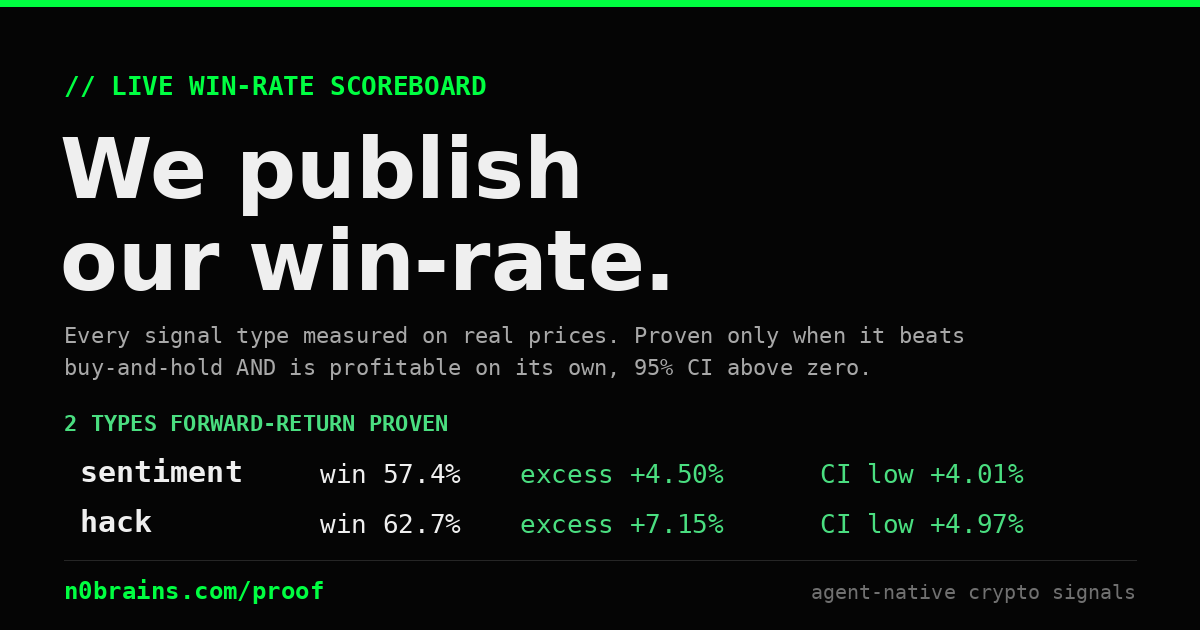
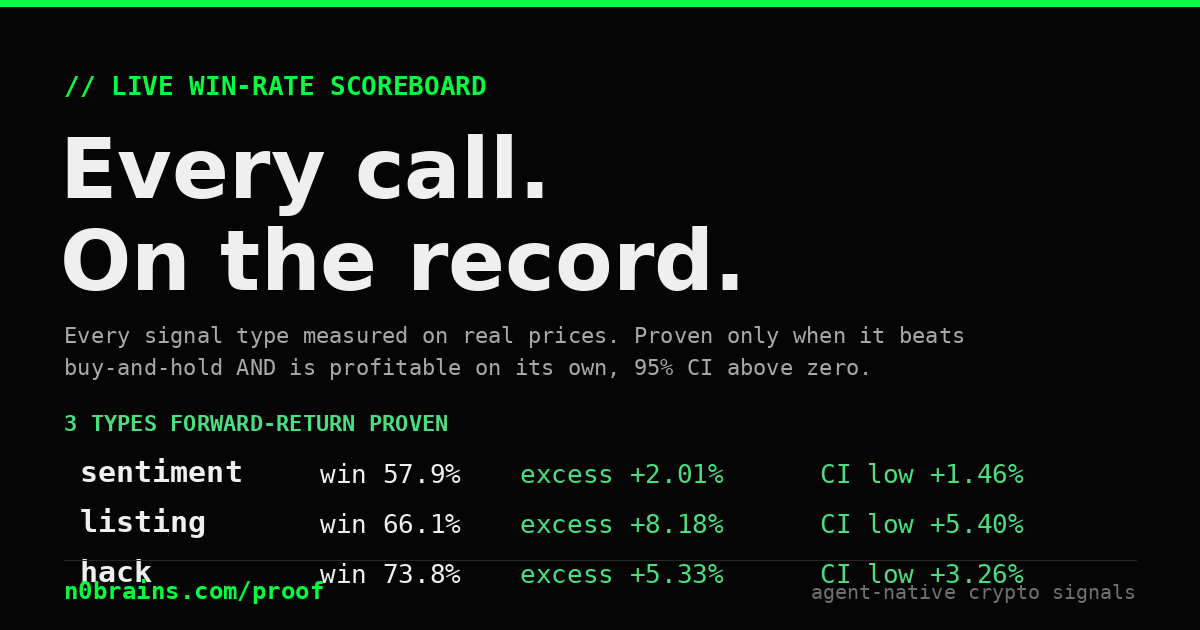
feat: rebrand slogan to "Every call. On the record." sitewide + slower stat rotator
- Header scroll tagline, footer, homepage honesty h2 (now "Our record
  is public. Theirs isn't."), og-proof.png regenerated with the new
  headline (baked PNG never updates itself — gen_og_proof.py edited)
- /proof hero stat rotator slowed: 7s per type, 420ms crossfade

diff --git a/scripts/gen_og_proof.py b/scripts/gen_og_proof.py
@@ -64,8 +64,8 @@ def main():
     d.text((64, 70), "// LIVE WIN-RATE SCOREBOARD", font=f(MONO_BOLD, 26), fill=ACCENT)
 
     # headline
-    d.text((60, 120), "We publish", font=f(SANS_BOLD, 84), fill=HEAD)
-    d.text((60, 212), "our win-rate.", font=f(SANS_BOLD, 84), fill=HEAD)
+    d.text((60, 120), "Every call.", font=f(SANS_BOLD, 84), fill=HEAD)
+    d.text((60, 212), "On the record.", font=f(SANS_BOLD, 84), fill=HEAD)
 
     # subhead
     d.text(